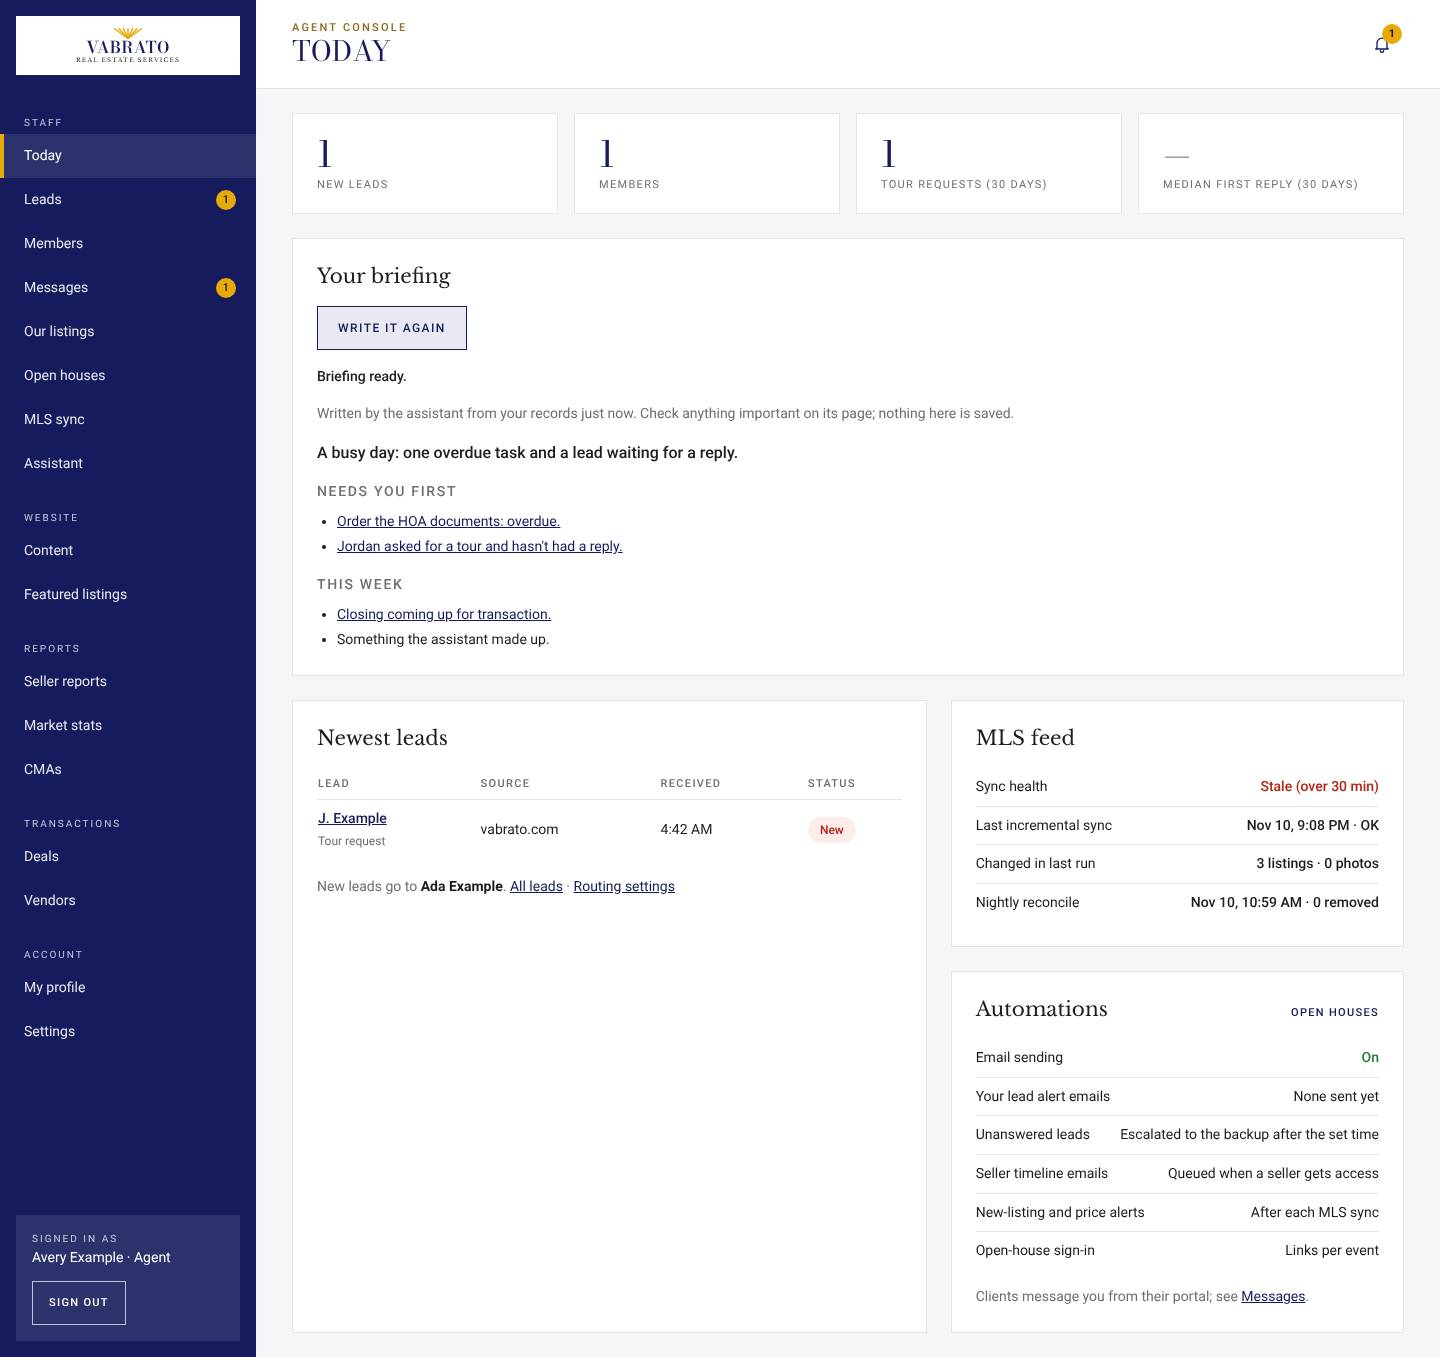
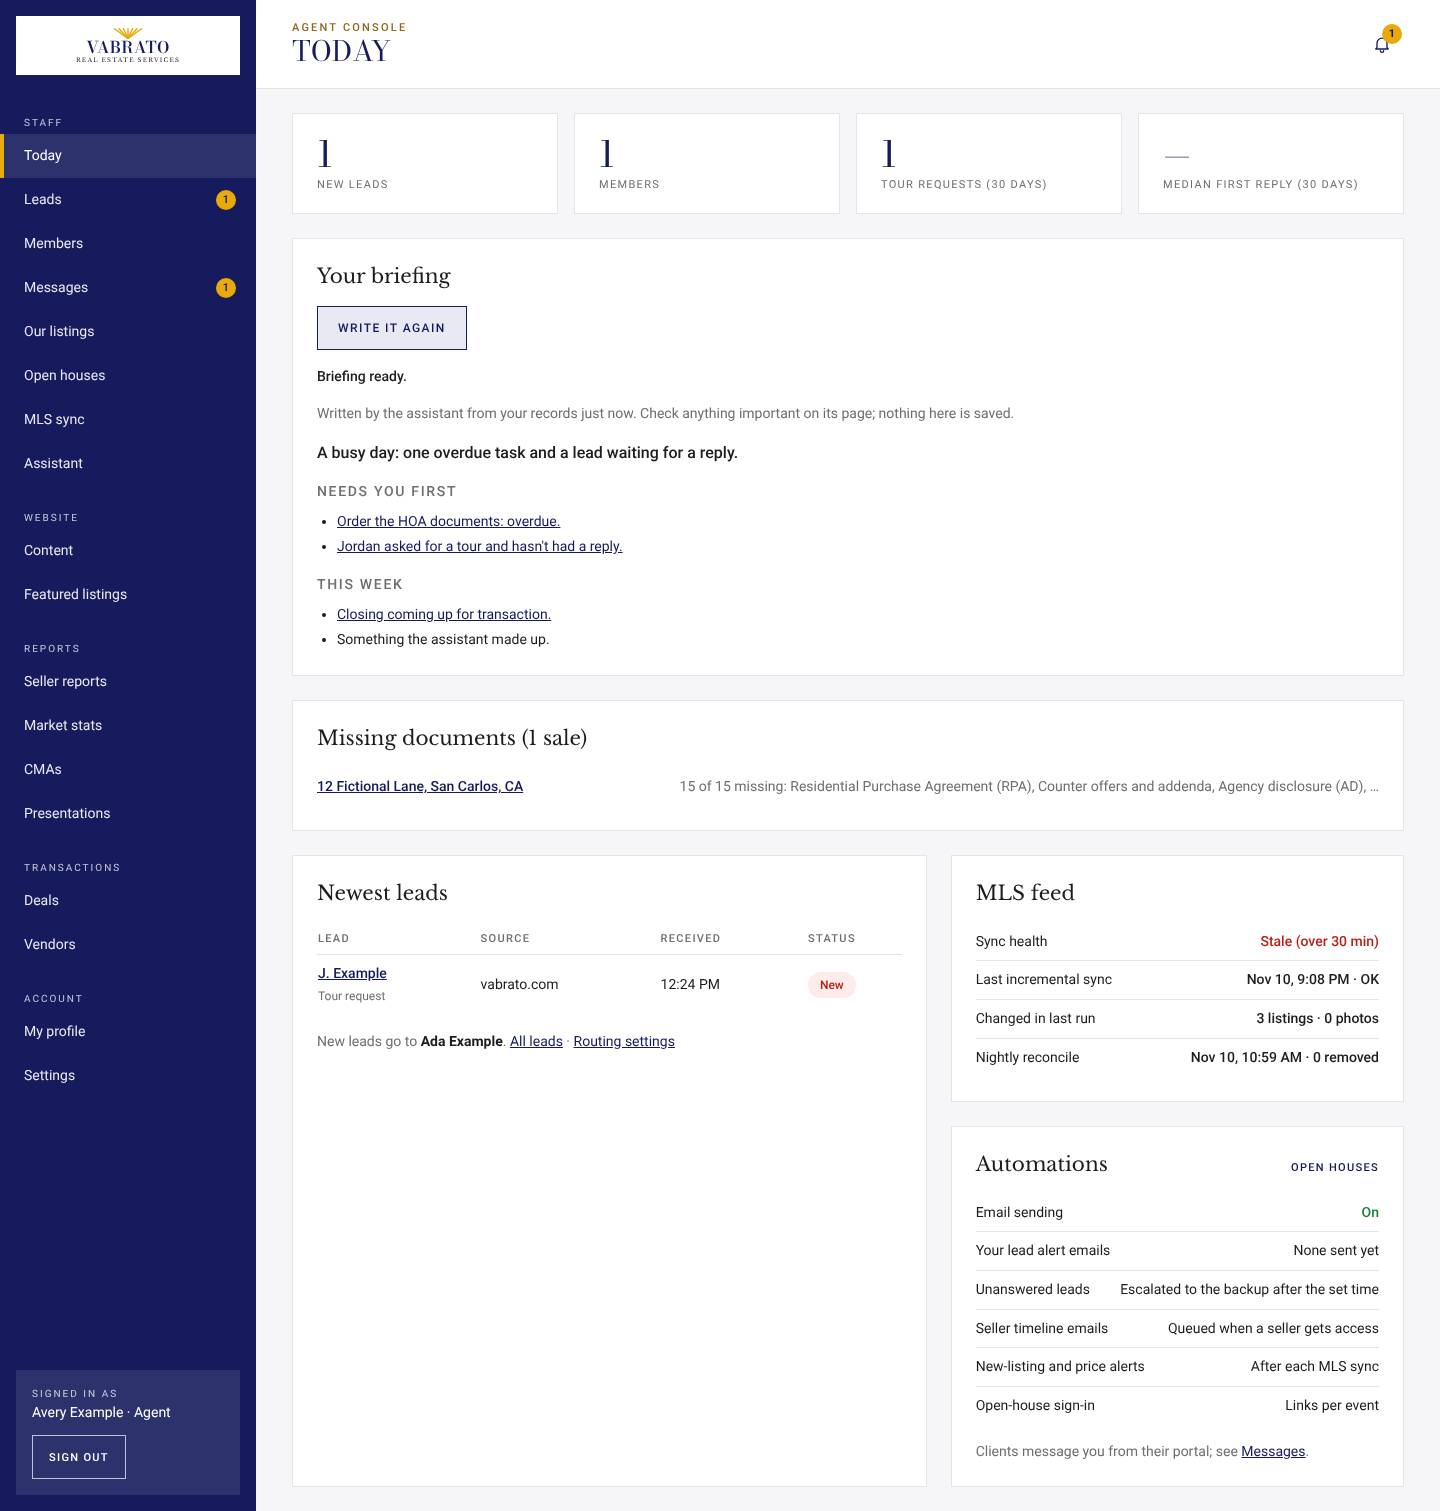
fix(va): document-check contrast, transaction links stay on the deal; QA passes
Claude-Session: https://claude.ai/code/session_01KCcaPhxMjUuJ61eR3JeHDj

diff --git a/apps/va/src/lib/work-snapshot.test.ts b/apps/va/src/lib/work-snapshot.test.ts
@@ -47,11 +47,11 @@ describe("the work snapshot", () => {
     expect(line("M1")).toMatch(/Dana \| waiting since 2026-03-19 \(1 day ago\) \| 2 unread/);
   });
 
-  it("missing documents (S6b PR 7a): counted by our code, linked to the Documents tab, in the briefing within 30 days of closing", () => {
+  it("missing documents (S6b PR 7a): counted by our code, on the deal's line, in the briefing within 30 days of closing", () => {
     const s = buildSnapshot(rows({ missingDocs: { [DEAL]: ["Agency disclosure (AD)", "Preliminary title report"] } }));
     const d1 = s.items.find((i) => i.ref === "D1")!;
     expect(d1.line).toMatch(/\| documents missing: 2 \(Agency disclosure \(AD\); Preliminary title report\)$/);
-    expect(d1.href).toBe(`/deals/${DEAL}/documents`);
+    expect(d1.href).toBe(`/deals/${DEAL}`);
     expect(d1.soon).toBe(true);
     expect(s.stats).toContain("Active transactions with documents missing from their checklist: 1.");
     const later = buildSnapshot(rows({ today: "2026-02-20", deals: [{ ...rows().deals[0]!, ratification_date: "2026-02-20", days_to_close: 60 }], missingDocs: { [DEAL]: ["Agency disclosure (AD)"] } }));

diff --git a/apps/va/src/components/documents.tsx b/apps/va/src/components/documents.tsx
@@ -268,9 +268,9 @@ export function DocItem({ dealId, source, id, name, href, meta, types, shared, c
               ))}
             </ul>
           ) : (
-            <p className={`${mutedCls} mt-1`}>Nothing to look at found.</p>
+            <p className="mt-1 font-body text-body-sm text-ink">Nothing to look at found.</p>
           )}
-          <p className={`${mutedCls} mt-2`}>Written by the assistant: it can be wrong, so check the document. Nothing from this check is saved.</p>
+          <p className="mt-2 font-body text-body-sm text-ink">Written by the assistant: it can be wrong, so check the document. Nothing from this check is saved.</p>
         </section>
       )}
       {editing && <TypesEditor key={editing.join(",")} initial={editing} saveLabel={source === "unfiled" ? "File it" : "Save types"} onSave={save} onCancel={() => setEditing(null)} />}

diff --git a/apps/va/src/lib/work-snapshot.ts b/apps/va/src/lib/work-snapshot.ts
@@ -84,7 +84,7 @@ export function buildSnapshot(rows: WorkRows): WorkSnapshot {
       ref,
       kind: "D",
       line: `${ref} | transaction | ${clean(d.address, 160)} | accepted ${d.ratification_date} | closes ${coe} (${when(today, coe)})${d.rent_back_days > 0 ? ` | seller stays ${d.rent_back_days} days after` : ""} | agent: ${owner(d.agent_id)}${docs}`,
-      href: missing.length ? `/deals/${d.id}/documents` : `/deals/${d.id}`,
+      href: `/deals/${d.id}`,
       soon: (toCoe >= 0 && toCoe <= 14) || (missing.length > 0 && toCoe >= 0 && toCoe <= 30),
     });
   });

diff --git a/docs/STATUS.md b/docs/STATUS.md
@@ -863,7 +863,7 @@ document checks, receipts, calendar drafts).
     the seller reads shared files, never the staff folder), 9 checklist
     tests, 18 for the console (file checks, paths, what each feature sends,
     a document that tries to give the assistant orders, the briefing).
-    Browser QA `scripts/qa/s6b-documents.mjs`: QA_RESULT.
+    Browser QA `scripts/qa/s6b-documents.mjs`: 38 checks pass on the local stack with the fake Claude (incl. the seller seeing a shared file in `/my/documents` and not after "Stop sharing", another agent getting a 404, axe at 1440 and 390 px); the PR 2–6 scripts still pass (64, 42, 28, 34, 24). Screenshots in `docs/screenshots/s6b-documents/`.
   - **After merge:** apply 0032 on your OK, then
     `packages/db/test/hosted-documents-check.sql` (rolled back; passes
     locally).
